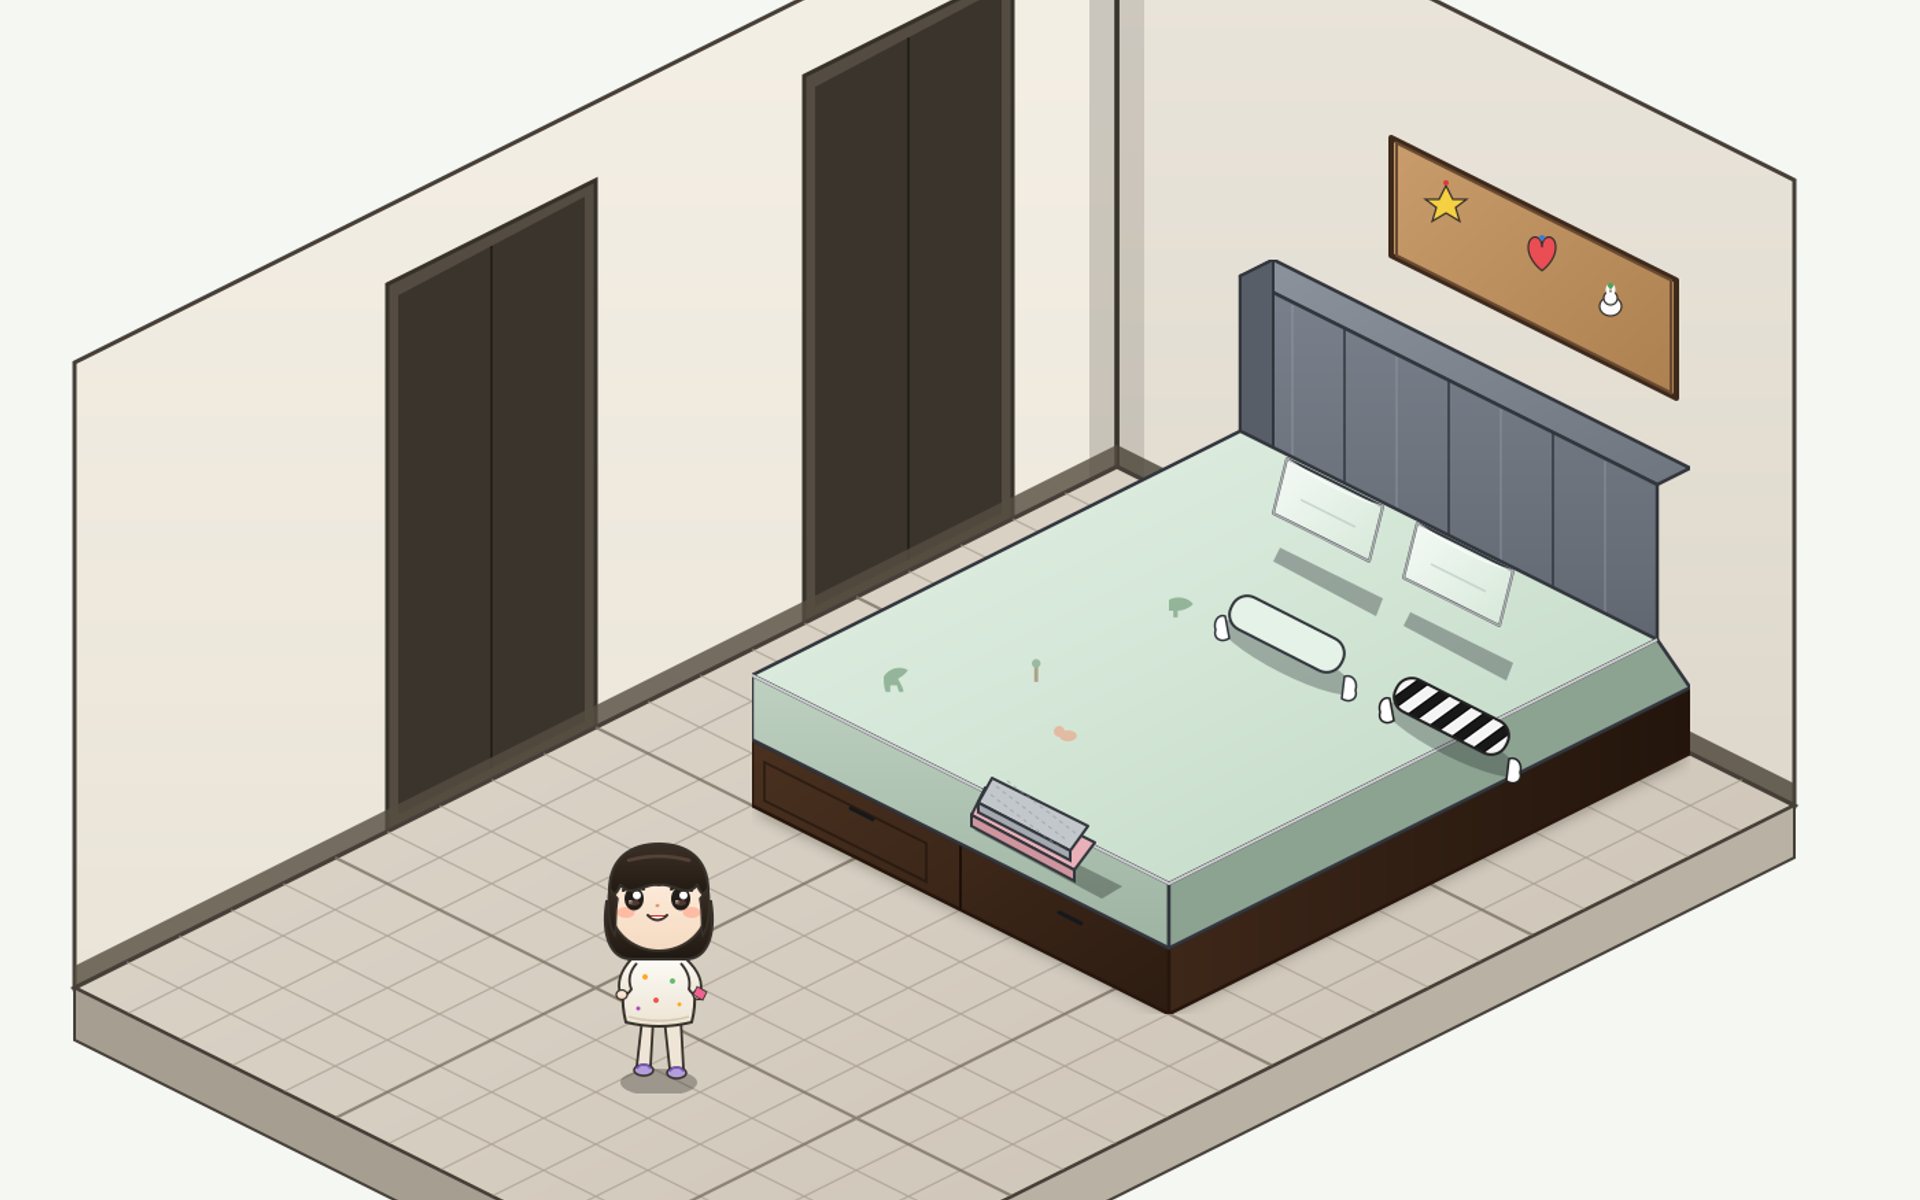
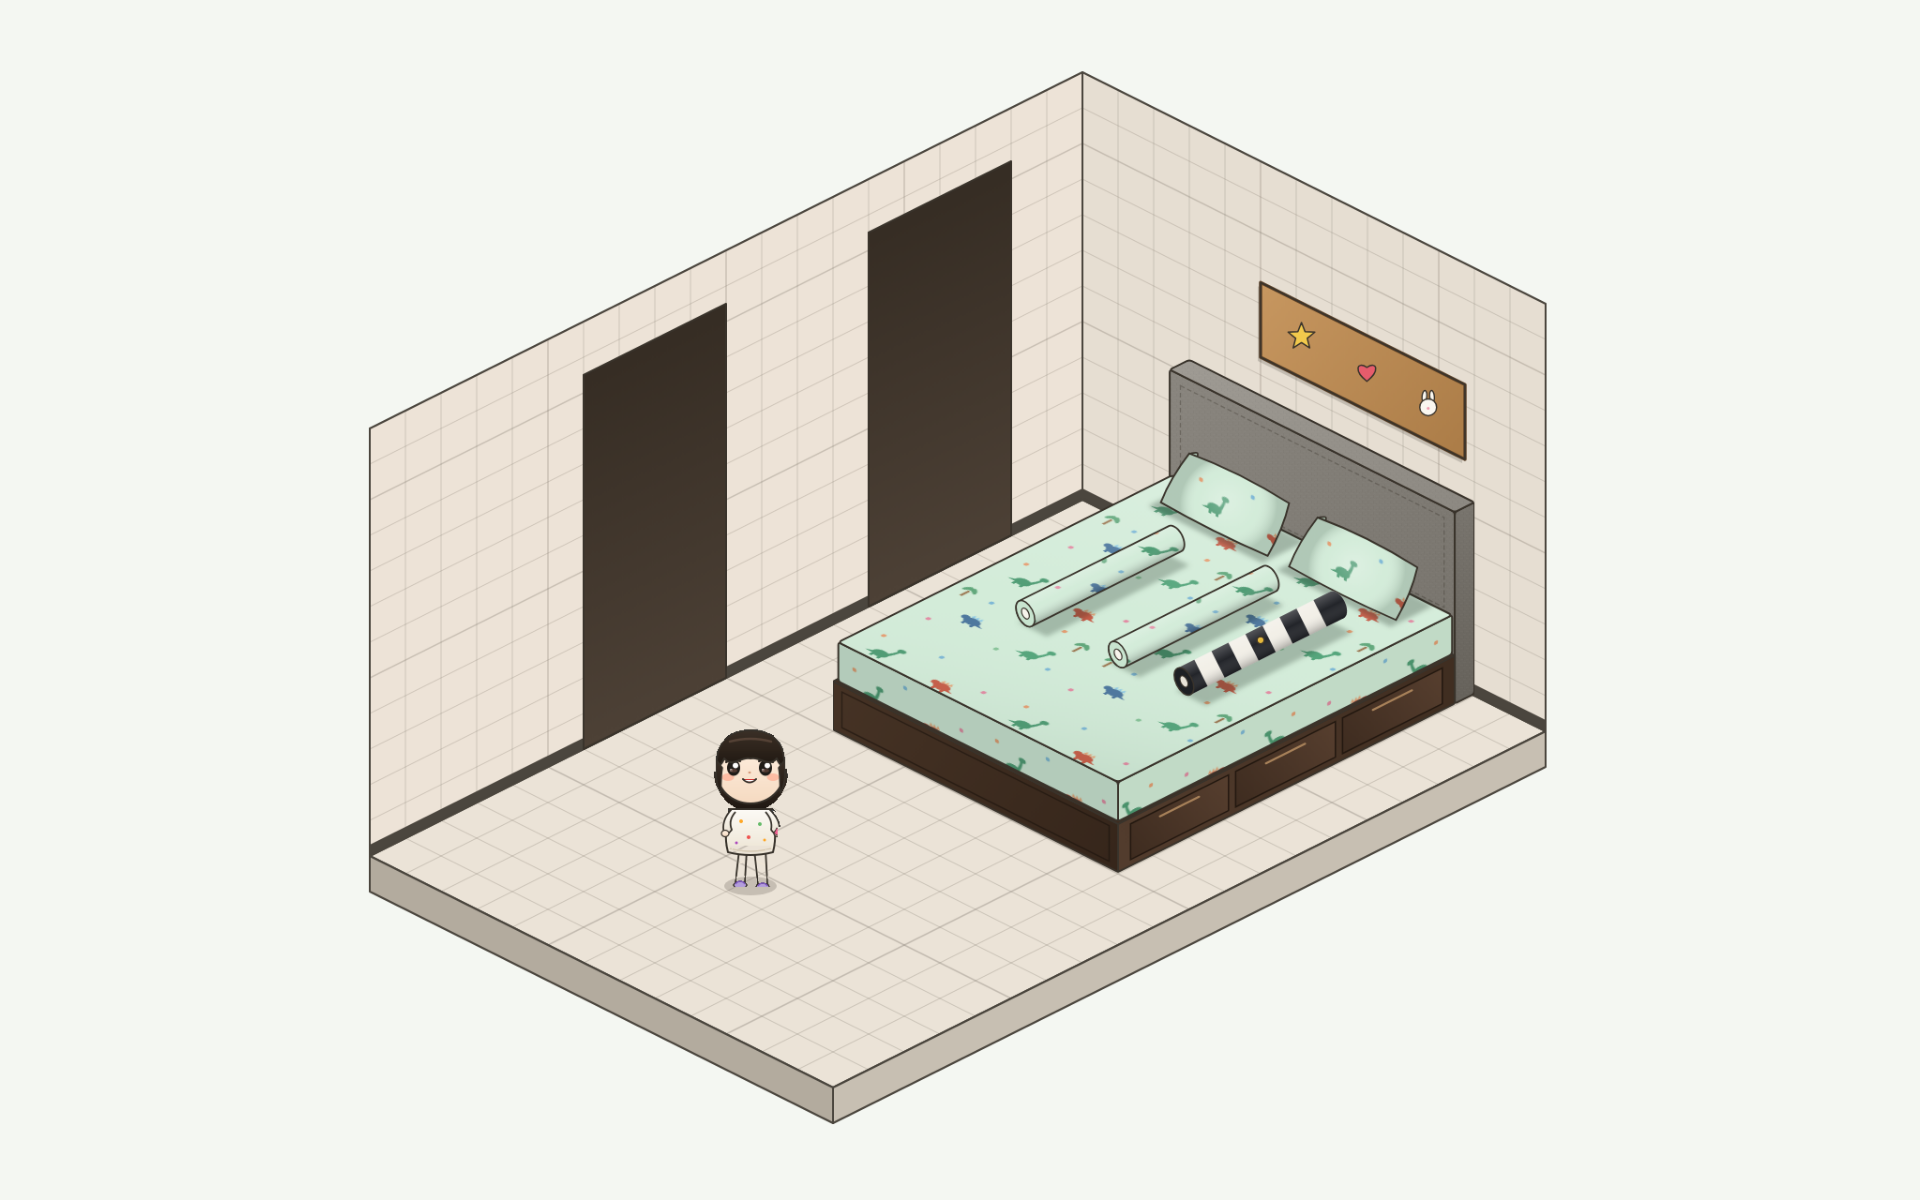
fix(design): align sofa back, generic pink bear, and regenerate #17 previews

diff --git a/design/concepts/M1/house/README.md b/design/concepts/M1/house/README.md
@@ -85,38 +85,38 @@ In accordance with `AGENTS.md`:
 ### `house.props.ruang-keluarga.sofa`
 - **Layout Rect**: `[1036, 681, 323, 242]` (2× asset: `646 × 484 px`)
 - **Base Footprint**: `[[1131, 762], [1359, 876], [1264, 923], [1036, 809]]` (12 × 5 cells, 240 × 100 cm).
-- **Real Appearance in Photos** (`ruang-keluarga.jpg`):
-  - **Form & Type**: The long section of the modular sectional sofa sitting against the rear wall, with a high structured backrest and padded right armrest.
-  - **Color & Material**: Upholstered in dark charcoal / slate grey textured woven fabric with neat button tufting indents and cushion seams.
-  - **Details to Keep**:
-    - Segmented backrest cushions with pillow-top headrest ridges.
-    - Solid closed volume with thick seat cushions (~80 px) and fabric skirt down to floor; no gaps through which the floor is visible.
+- **Real Appearance in Photos** (`ruang-keluarga.jpg`) & **Delivered Asset**:
+  - **Form & Type**: The long section of the modular sectional sofa sitting against the rear wall, with one uniform row of three equal-height back cushions resting on the seat and a padded boxy right armrest.
+  - **Color & Material**: Upholstered in dark charcoal / slate grey textured woven fabric with neat tufted button dimples, subtle dashed stitch lines, and cushion seams.
+  - **Details Included**:
+    - Three aligned back cushions of equal height (`0.785 m`) resting solidly on the seat cushions with a horizontal mid-cushion seam (no offset tiers).
+    - Solid closed volume with thick tufted seat cushions (`0.45 m`), upholstered lower base apron, and short dark corner feet joined cleanly to the base with no gaps.
     - Padded boxy armrest on the right wall end.
-    - Delightful row of plush toys perched atop the backrest against the rear wall:
-      - Lotso bear (strawberry pink with dark magenta nose)
+    - Three generic plush toys perched atop the backrest:
       - Chubby brown teddy bear
-      - Soft white bunny with floppy pink-lined ears.
+      - Generic pastel-pink teddy bear (cream muzzle and dark teddy nose)
+      - Soft white bunny with pink-lined ears.
   - **Placement**: Sits against the rear wall facing the TV, flush with `sofa-l`.
 
 ### `house.props.ruang-keluarga.sofa-l`
 - **Layout Rect**: `[979, 766, 152, 119]` (2× asset: `304 × 238 px`)
 - **Base Footprint**: `[[1036, 809], [1131, 857], [1074, 885], [979, 838]]` (5 × 3 cells, 100 × 60 cm).
-- **Real Appearance in Photos** (`ruang-keluarga.jpg`):
-  - **Form & Type**: The leg of the L-sectional, a seat without a back.
+- **Real Appearance in Photos** (`ruang-keluarga.jpg`) & **Delivered Asset**:
+  - **Form & Type**: The leg of the L-sectional, a backless chaise seat.
   - **Color & Material**: Dark charcoal / slate grey textured woven fabric matching `sofa`.
-  - **Details to Keep**:
-    - Solid, closed volume: seat with real thickness (~80 px), clean stitch lines and center button tufting, vertical skirt down to floor base.
+  - **Details Included**:
+    - Solid, closed volume: tufted seat cushion (`0.45 m`) with dashed stitch lines and two button dimples, upholstered base apron, and short dark corner feet.
     - Aligns flush against `sofa`'s front edge along `(2072, 1618)` to `(2262, 1714)` with zero gaps.
 
 ### `house.props.ruang-keluarga.puf`
 - **Layout Rect**: `[903, 804, 152, 119]` (2× asset: `304 × 238 px`)
 - **Base Footprint**: `[[960, 847], [1055, 895], [998, 923], [903, 876]]` (5 × 3 cells, 100 × 60 cm).
-- **Real Appearance in Photos** (`ruang-keluarga.jpg`):
+- **Real Appearance in Photos** (`ruang-keluarga.jpg`) & **Delivered Asset**:
   - **Form & Type**: Separate matching rectangular ottoman bench / footstool.
   - **Color & Material**: Dark charcoal / slate grey textured woven fabric matching the sofa.
-  - **Details to Keep**:
-    - Solid, closed volume with tufted cushion top and vertical fabric apron down to floor.
-    - Placed side by side with `sofa-l`, reading as a complete lounge ensemble with the L-sofa.
+  - **Details Included**:
+    - Solid, closed volume with tufted cushion lid, horizontal body seam, small pull-tab loop on the front-left side, and short dark corner feet.
+    - Placed one cell (`20 cm`) in front of `sofa-l`, reading as a complete lounge ensemble with the L-sofa.
 
 ### `house.props.ruang-keluarga.rak-tv`
 - **Layout Rect**: `[808, 885, 114, 133]` (2× asset: `228 × 266 px`)
@@ -195,17 +195,16 @@ In accordance with `AGENTS.md`:
 - **Layout Rect**: `[1074, 401, 342, 275]` (2× asset: `684 × 550 px`)
 - **Base Footprint**: `[[1264, 505], [1416, 581], [1226, 676], [1074, 600]]` (8 × 10 cells, 160 × 200 cm queen size).
 - **Blockout Height**: 1.1 m tall box (209 px at 2×) extending to the top of the headboard against the `wall-y0` back wall.
-- **Real Appearance in Photos** (`atas-kamar-tidur/kamar-tidur-1.jpg`, `kamar-tidur-2.jpg`):
-  - **Form & Type**: Queen-size master platform bed with solid dark brown walnut base incorporating pull-out under-bed storage drawers and a tall padded headboard.
-  - **Color & Material**: Dark brown walnut wooden base (`#4a3120` to `#2d1c11`); tailored rectangular padded headboard upholstered in textured grey fabric (`#7a818c` to `#555a63`) with vertical channel tufting.
-  - **Details to Keep**:
-    - Grey upholstered headboard stands 1.1 m tall against the back (`y0`) wall.
-    - Two plush pillows propped upright against the headboard.
-    - Mattress top sits at ~0.5 m (~95 px at 2×) on the dark brown walnut drawer base with visible drawer divider lines and minimalist pulls on the left face.
-    - Dressed in neat pale mint/sage green bedsheet printed with tiny subtle dinosaur motifs.
-    - Theia's matching mint dino bolster (`guling`) with white tied ruffles, and Papa's iconic black-and-white vertically striped Juventus bolster along the right side.
-    - Small folded blanket (heather grey waffle fleece over soft pink layer) resting neatly on the mattress, well clear of and never hanging over the front edge.
-    - The sticker-wall / pin board spot (`spots.sticker-wall` at `[1302, 344, 114, 114]`, 2× `[2604, 688, 228, 228]`) hangs on `wall-y0` directly above the headboard.
+- **Real Appearance in Photos** (`atas-kamar-tidur/kamar-tidur-1.jpg`, `kamar-tidur-2.jpg`) & **Delivered Asset**:
+  - **Form & Type**: Queen-size master platform bed with solid dark brown walnut base incorporating pull-out under-bed storage drawers and a full-height tailored headboard.
+  - **Color & Material**: Dark brown walnut wooden base (`#523c2d` to `#34241a`); tailored rectangular padded headboard upholstered in warm medium grey fabric (`#9e9a93` to `#67635c`) with an inset perimeter stitch seam.
+  - **Details Included**:
+    - Grey upholstered headboard stands full height (~1.085 m) against the back (`y0`) wall without clipping.
+    - Two plump mint dinosaur pillows propped against the headboard.
+    - Mattress top sits at `0.50 m` (`95 px` at 2×) on the dark brown walnut base, with three pull-out storage drawers and warm wood pull bars along the right (`x = 1.60 m`) side.
+    - Dressed in pale mint/sage green fitted sheet printed with green, coral-red, and blue cartoon dinosaurs and tiny palm motifs.
+    - Two mint dinosaur bolsters (`guling`) with tied white rosette ends and one black-and-white vertically striped bolster with a small yellow dot accent resting on the mattress; no folded blankets hanging over the edges.
+    - The sticker-wall board (`spots.sticker-wall` at `[1302, 344, 114, 114]`, 2× `[2604, 688, 228, 228]`) hangs on `wall-y0` directly above the headboard in the `kamar-tidur` previews.
   - **In-Game Role**: Key anchor for bedtime storytelling and ending sequence (`SCR-BEDTIME`).
 
 ### `house.props.kamar-tidur.lemari`
@@ -272,7 +271,7 @@ The following elements are prominent in the actual reference photos and video st
    - *Real details*: Black powder-coated wire shelf holding the rice cooker, electric kettle, and sterilizer.
 8. **Plush Toy Row on Sofa Back**:
    - *Location*: Along the top ledge of the sofa back against the wall (visible in `ruang-keluarga.jpg`).
-   - *Real details*: Lotso bear, brown bear, and character dolls.
+   - *Real details*: Pink bear, brown bear, and white bunny plushies (stylized as a generic pink teddy, brown teddy, and white bunny in the asset).
 
 ### B. Classification & Placement Discrepancies in `layout.json`
 1. **`house.props.dapur.kotak-mainan` Room Assignment**:
